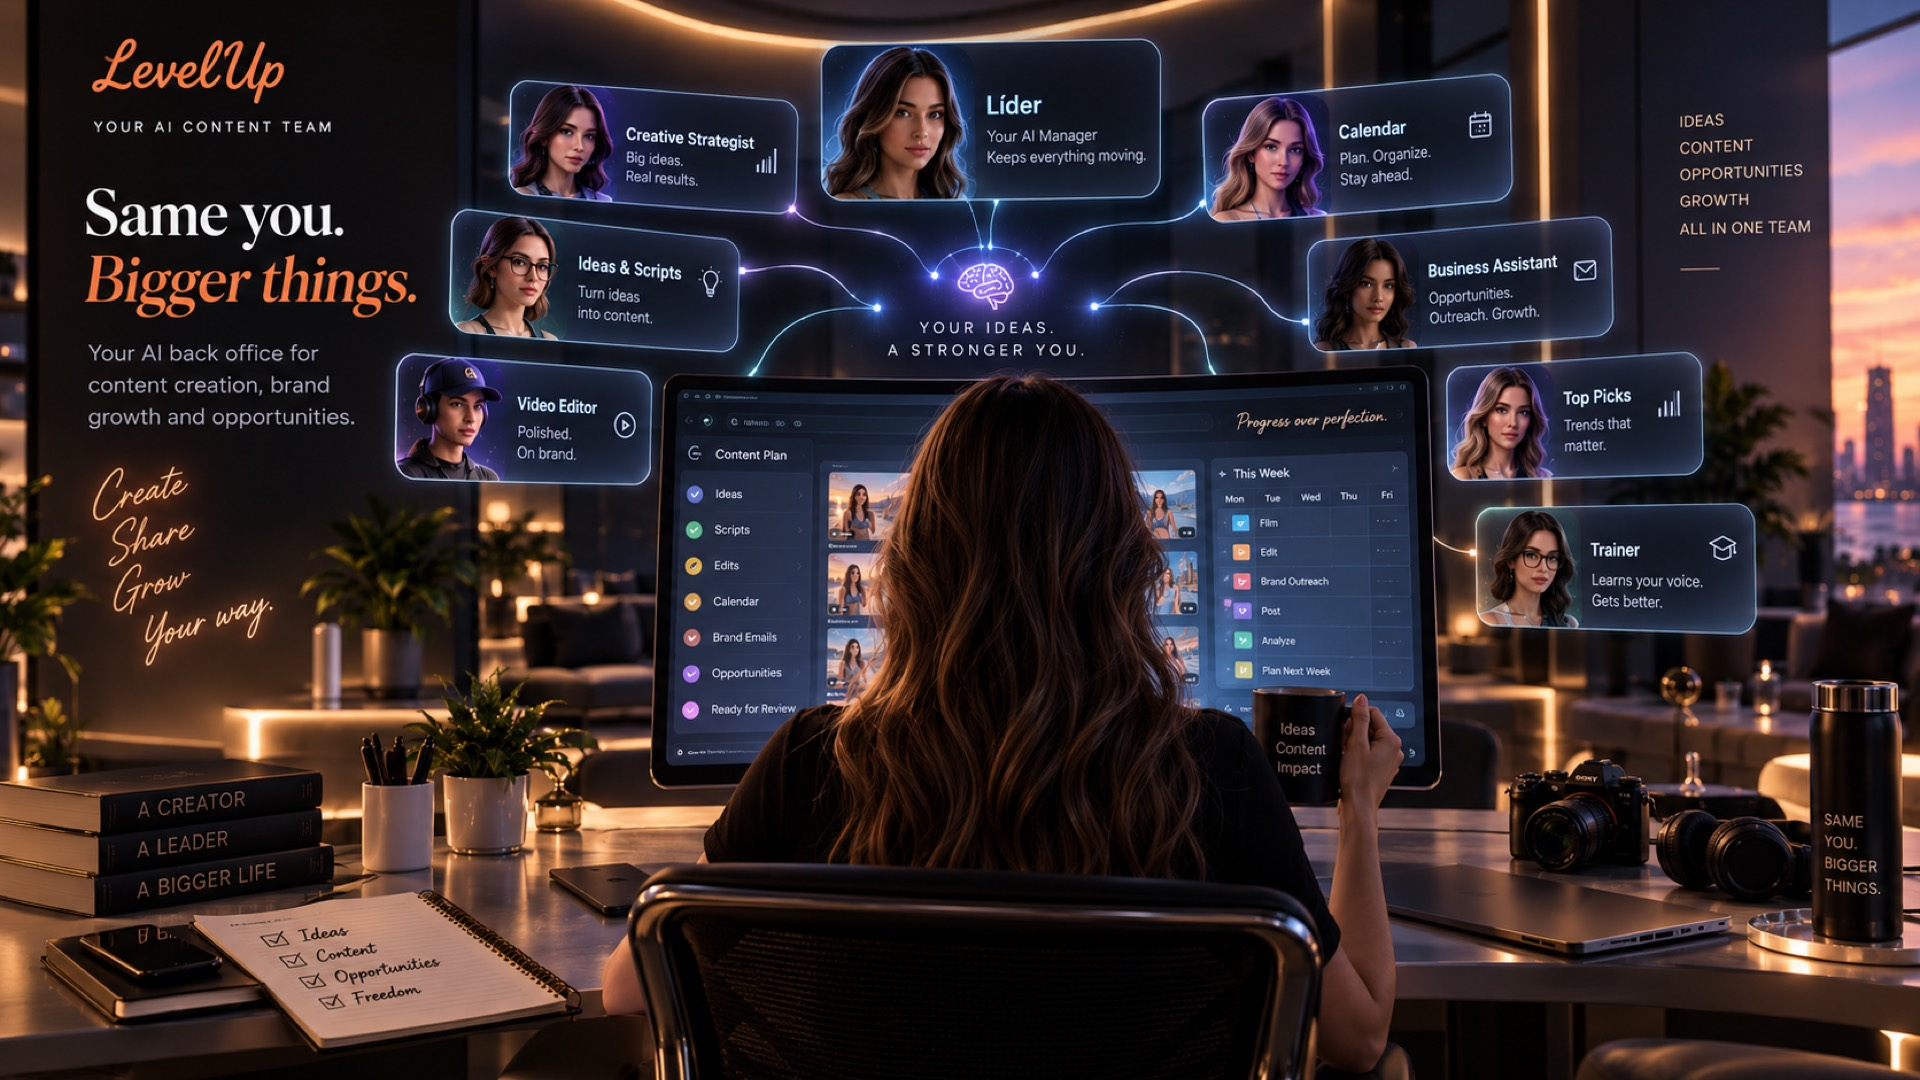
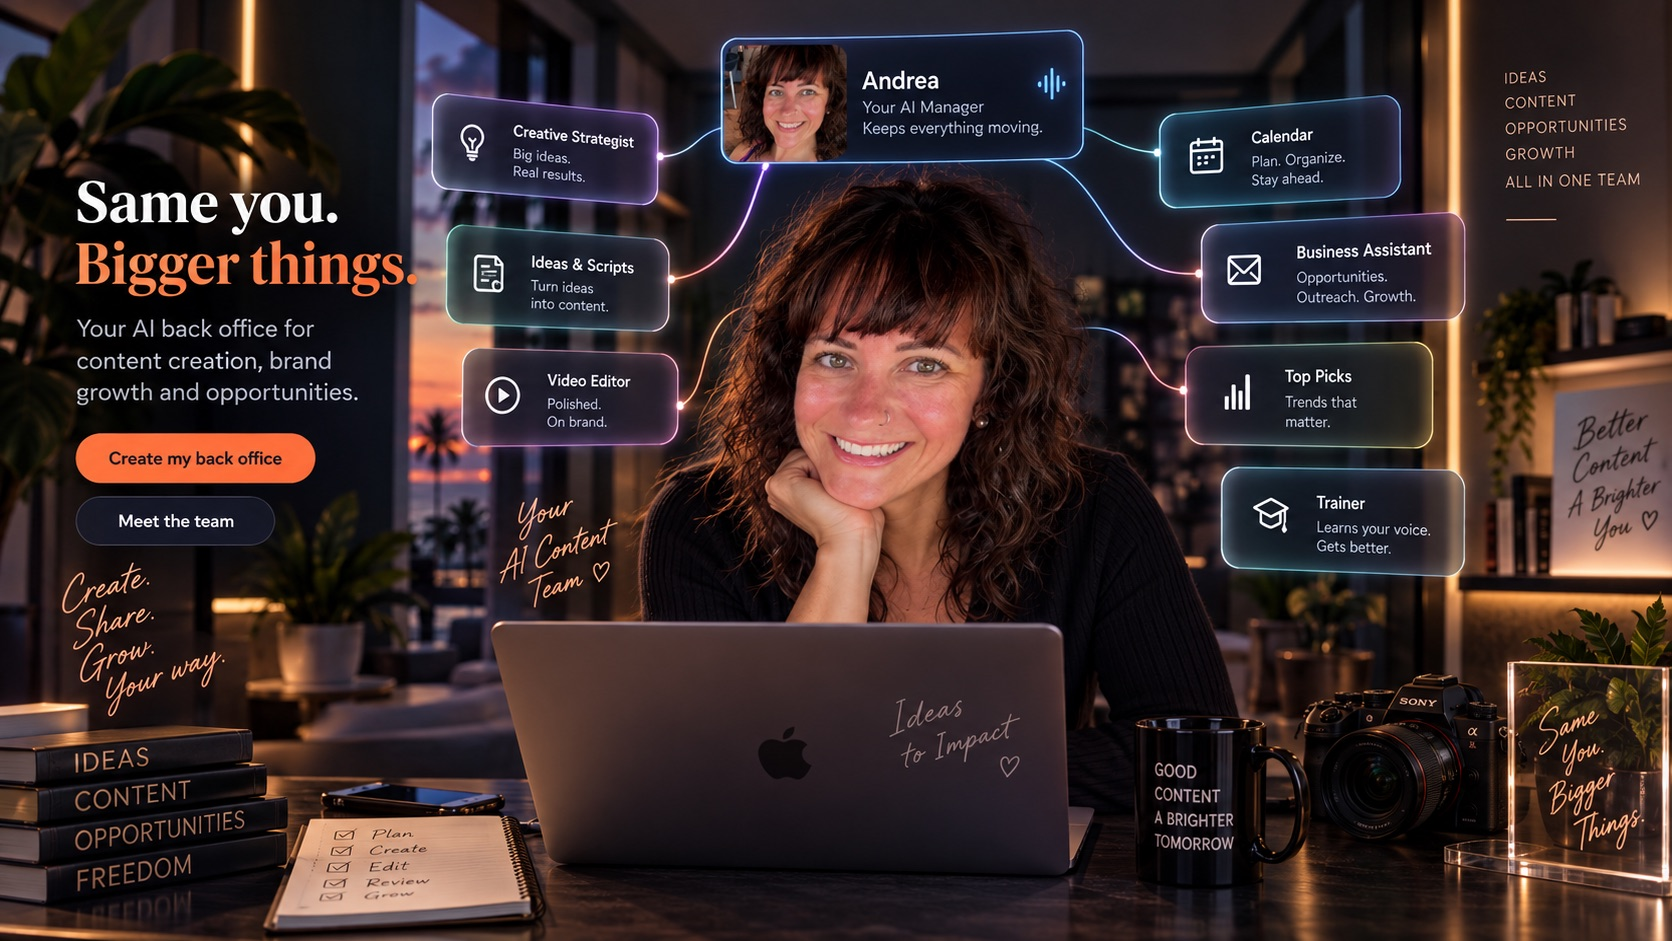
feat(levelup): new hero artwork on the landing page
Owner-supplied image, and it also corrects the manager's name: the old
artwork still said Lider where the product says Andrea. Native ratio is
1672x941, so the band's aspect-ratio follows it instead of letterboxing a
1920/1080 frame. VERSION bumped so the cached file is replaced.

diff --git a/verticals/levelup/public/landing.html b/verticals/levelup/public/landing.html
@@ -23,7 +23,7 @@ nav{display:flex;gap:8px;align-items:center;flex-wrap:wrap}
 /* Full-width hero band: the WHOLE artwork, never cropped (its own 16:9 ratio,
    background-size contain). The headline used to sit on top of it and collided
    with the artwork's own wordmark, so the copy lives underneath now. */
-.hero-band{position:relative;width:100%;aspect-ratio:1920/1080;background:url("{{BASE}}/hero.jpg?v={{VERSION}}") center/contain no-repeat;background-color:#0b0912}
+.hero-band{position:relative;width:100%;aspect-ratio:1672/941;background:url("{{BASE}}/hero.jpg?v={{VERSION}}") center/contain no-repeat;background-color:#0b0912}
 .hero-band::after{content:"";position:absolute;inset:0;background:rgba(255,255,255,.12);pointer-events:none}
 :root[data-theme="dark"] .hero-band::after{background:rgba(11,9,18,.18)}
 .hero{max-width:1320px;margin:0 auto;padding:44px 24px 36px;display:grid;grid-template-columns:1.2fr 1fr;gap:36px;align-items:center}

diff --git a/verticals/levelup/src/index.js b/verticals/levelup/src/index.js
@@ -47,7 +47,7 @@ function platformFacts() {
 
 const router = express.Router();
 const PUB = path.join(__dirname, '..', 'public');
-const VERSION = 'lu-2026-09-22-10';
+const VERSION = 'lu-2026-09-22-11';
 
 router.use(express.json({ limit: '1mb' }));
 
